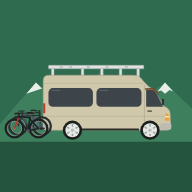
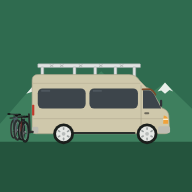
Van: bikes hang across the back, drawn end-on from the side
Claude-Session: https://claude.ai/code/session_01LHdGYmdbWbR8JhTrwiU8N7

Changed region(s): [[0.0, 0.3125, 0.9062, 0.75]]

diff --git a/trip/index.html b/trip/index.html
@@ -136,7 +136,7 @@ textarea{min-height:72px;resize:vertical}
 #splash{position:fixed;inset:0;z-index:200;background:var(--fern);display:grid;place-items:center;align-content:center;gap:14px;animation:spOut .45s ease 1.75s forwards}
 @keyframes spOut{to{opacity:0;visibility:hidden}}
 .sp-scene{position:relative;width:250px;height:160px;overflow:visible}
-.sp-van{position:absolute;left:-33px;bottom:7px;width:263px;animation:spBob .28s ease-in-out infinite alternate}
+.sp-van{position:absolute;left:-7.5px;bottom:7px;width:237.6px;animation:spBob .28s ease-in-out infinite alternate}
 @keyframes spBob{to{transform:translateY(-2.5px)}}
 .sp-wheel{transform-box:fill-box;transform-origin:center;animation:spSpin .45s linear infinite}
 @keyframes spSpin{to{transform:rotate(-360deg)}}
@@ -444,7 +444,7 @@ pre.sql{background:var(--paper);border:1px solid var(--line);border-radius:10px;
 </style>
 </head>
 <body>
-<div id="splash" aria-hidden="true"><div class="sp-scene"><div class="sp-ground"></div><div class="sp-night"><svg class="sp-sky" viewBox="0 0 400 460" preserveAspectRatio="xMidYMin slice" aria-hidden="true"><circle cx="165" cy="77" r="0.5" fill="#fff" opacity="0.8"/><circle cx="202" cy="333" r="0.5" fill="#fff" opacity="0.6"/><circle cx="24" cy="37" r="0.7" fill="#fff" opacity="0.6"/><circle cx="274" cy="48" r="0.5" fill="#fff" opacity="0.45"/><circle cx="187" cy="298" r="0.7" fill="#fff" opacity="0.6"/><circle cx="29" cy="259" r="0.9" fill="#fff" opacity="0.6"/><circle cx="109" cy="19" r="0.5" fill="#fff" opacity="0.6"/><circle cx="44" cy="222" r="0.9" fill="#fff" opacity="0.6"/><circle cx="214" cy="35" r="0.9" fill="#fff" opacity="0.6"/><circle cx="123" cy="46" r="0.7" fill="#fff" opacity="0.8"/><circle cx="282" cy="217" r="0.7" fill="#fff" opacity="0.45"/><circle cx="30" cy="289" r="0.5" fill="#fff" opacity="0.45"/><circle cx="322" cy="321" r="0.5" fill="#fff" opacity="0.45"/><circle cx="298" cy="31" r="0.5" fill="#fff" opacity="0.8"/><circle cx="295" cy="299" r="0.5" fill="#fff" opacity="0.45"/><circle cx="203" cy="25" r="0.7" fill="#fff" opacity="0.8"/><circle cx="113" cy="23" r="0.5" fill="#fff" opacity="0.6"/><circle cx="148" cy="214" r="0.7" fill="#fff" opacity="0.45"/><circle cx="73" cy="276" r="0.5" fill="#fff" opacity="0.6"/><circle cx="60" cy="292" r="0.9" fill="#fff" opacity="0.6"/><circle cx="157" cy="286" r="0.9" fill="#fff" opacity="0.8"/><circle cx="349" cy="92" r="0.7" fill="#fff" opacity="0.45"/><circle cx="52" cy="297" r="0.9" fill="#fff" opacity="0.8"/><circle cx="292" cy="327" r="0.9" fill="#fff" opacity="0.8"/><circle cx="96" cy="190" r="0.9" fill="#fff" opacity="0.8"/><circle cx="49" cy="280" r="0.5" fill="#fff" opacity="0.6"/><circle cx="364" cy="32" r="0.9" fill="#fff" opacity="0.8"/><circle cx="288" cy="30" r="0.7" fill="#fff" opacity="0.6"/><circle cx="254" cy="348" r="0.7" fill="#fff" opacity="0.6"/><circle cx="272" cy="218" r="0.5" fill="#fff" opacity="0.6"/><circle cx="397" cy="160" r="0.9" fill="#fff" opacity="0.6"/><circle cx="238" cy="299" r="0.5" fill="#fff" opacity="0.45"/><circle cx="232" cy="185" r="0.5" fill="#fff" opacity="0.45"/><circle cx="153" cy="127" r="0.7" fill="#fff" opacity="0.45"/><circle cx="92" cy="357" r="0.5" fill="#fff" opacity="0.6"/><circle cx="399" cy="124" r="0.9" fill="#fff" opacity="0.45"/><circle cx="41" cy="294" r="0.5" fill="#fff" opacity="0.45"/><circle cx="153" cy="268" r="0.9" fill="#fff" opacity="0.45"/><circle cx="253" cy="175" r="0.9" fill="#fff" opacity="0.45"/><circle cx="373" cy="229" r="0.7" fill="#fff" opacity="0.8"/><circle cx="147" cy="311" r="0.5" fill="#fff" opacity="0.45"/><circle cx="37" cy="60" r="0.5" fill="#fff" opacity="0.8"/><circle cx="262" cy="214" r="0.7" fill="#fff" opacity="0.45"/><circle cx="84" cy="175" r="0.9" fill="#fff" opacity="0.6"/><circle cx="77" cy="250" r="0.7" fill="#fff" opacity="0.8"/><circle cx="215" cy="20" r="0.7" fill="#fff" opacity="0.6"/><circle cx="342" cy="39" r="0.5" fill="#fff" opacity="0.45"/><circle cx="391" cy="285" r="0.7" fill="#fff" opacity="0.6"/><circle cx="174" cy="355" r="0.7" fill="#fff" opacity="0.6"/><circle cx="179" cy="304" r="0.7" fill="#fff" opacity="0.45"/><path d="M70 70a20 20 0 1 0 16 31a16 16 0 1 1 -16 -31z" fill="#f3efd9" opacity=".95"/><g class="tw"><circle cx="292" cy="84" r="3.9899999999999998" fill="#cfe0ff" opacity=".22"/><circle cx="292" cy="84" r="2.1" fill="#fff"/></g><g class="tw b"><circle cx="297" cy="136" r="4.9399999999999995" fill="#cfe0ff" opacity=".22"/><circle cx="297" cy="136" r="2.6" fill="#fff"/></g><g class="tw c"><circle cx="272" cy="106" r="4.56" fill="#cfe0ff" opacity=".22"/><circle cx="272" cy="106" r="2.4" fill="#fff"/></g><g class="tw d"><circle cx="313" cy="102" r="3.04" fill="#cfe0ff" opacity=".22"/><circle cx="313" cy="102" r="1.6" fill="#fff"/></g><g class="tw"><circle cx="303" cy="119" r="2.09" fill="#cfe0ff" opacity=".22"/><circle cx="303" cy="119" r="1.1" fill="#fff"/></g><g class="tw b"><circle cx="234" cy="124" r="4.56" fill="#cfe0ff" opacity=".22"/><circle cx="234" cy="124" r="2.4" fill="#fff"/></g><g class="tw c"><circle cx="204" cy="134" r="5.51" fill="#cfe0ff" opacity=".22"/><circle cx="204" cy="134" r="2.9" fill="#fff"/></g></svg></div><div class="sp-far"></div><div class="sp-bush"></div><div class="sp-road"></div><svg class="sp-fan sp-day" viewBox="0 0 64 40" aria-hidden="true"><g><path d="M30 20L58 6L62 16L60 26L56 34Z" fill="#3b2c22"/><path d="M58 6L62 16L60 26L56 34" fill="none" stroke="#fff" stroke-width="2.4" stroke-linecap="round"/><path d="M33 19L60 12M33 21L61 22M32 23L57 31" stroke="#5a4334" stroke-width=".9"/></g><ellipse cx="22" cy="21" rx="12" ry="8" fill="#6a4f3c"/><path d="M12 22q8 8 18 2" fill="#e8c88f"/><circle cx="12" cy="15" r="7" fill="#4a3628"/><path d="M8 12q4-2 8 0" stroke="#fff" stroke-width="1.6" fill="none" stroke-linecap="round"/><path d="M7 19q4 3 8 1" stroke="#fff" stroke-width="1.4" fill="none"/><circle cx="9.5" cy="14.5" r="1.4" fill="#111"/><path d="M5 15L1 16L5 17Z" fill="#2b211a"/><path class="sp-wing" d="M18 18Q28 2 40 8Q32 14 26 21Z" fill="#57402f"/></svg><div class="sp-beam sp-night"></div><div class="sp-puffs"><i></i><i></i><i></i></div><svg class="sp-van" viewBox="-96 30 582 265" aria-hidden="true"><g class="vbody">
+<div id="splash" aria-hidden="true"><div class="sp-scene"><div class="sp-ground"></div><div class="sp-night"><svg class="sp-sky" viewBox="0 0 400 460" preserveAspectRatio="xMidYMin slice" aria-hidden="true"><circle cx="165" cy="77" r="0.5" fill="#fff" opacity="0.8"/><circle cx="202" cy="333" r="0.5" fill="#fff" opacity="0.6"/><circle cx="24" cy="37" r="0.7" fill="#fff" opacity="0.6"/><circle cx="274" cy="48" r="0.5" fill="#fff" opacity="0.45"/><circle cx="187" cy="298" r="0.7" fill="#fff" opacity="0.6"/><circle cx="29" cy="259" r="0.9" fill="#fff" opacity="0.6"/><circle cx="109" cy="19" r="0.5" fill="#fff" opacity="0.6"/><circle cx="44" cy="222" r="0.9" fill="#fff" opacity="0.6"/><circle cx="214" cy="35" r="0.9" fill="#fff" opacity="0.6"/><circle cx="123" cy="46" r="0.7" fill="#fff" opacity="0.8"/><circle cx="282" cy="217" r="0.7" fill="#fff" opacity="0.45"/><circle cx="30" cy="289" r="0.5" fill="#fff" opacity="0.45"/><circle cx="322" cy="321" r="0.5" fill="#fff" opacity="0.45"/><circle cx="298" cy="31" r="0.5" fill="#fff" opacity="0.8"/><circle cx="295" cy="299" r="0.5" fill="#fff" opacity="0.45"/><circle cx="203" cy="25" r="0.7" fill="#fff" opacity="0.8"/><circle cx="113" cy="23" r="0.5" fill="#fff" opacity="0.6"/><circle cx="148" cy="214" r="0.7" fill="#fff" opacity="0.45"/><circle cx="73" cy="276" r="0.5" fill="#fff" opacity="0.6"/><circle cx="60" cy="292" r="0.9" fill="#fff" opacity="0.6"/><circle cx="157" cy="286" r="0.9" fill="#fff" opacity="0.8"/><circle cx="349" cy="92" r="0.7" fill="#fff" opacity="0.45"/><circle cx="52" cy="297" r="0.9" fill="#fff" opacity="0.8"/><circle cx="292" cy="327" r="0.9" fill="#fff" opacity="0.8"/><circle cx="96" cy="190" r="0.9" fill="#fff" opacity="0.8"/><circle cx="49" cy="280" r="0.5" fill="#fff" opacity="0.6"/><circle cx="364" cy="32" r="0.9" fill="#fff" opacity="0.8"/><circle cx="288" cy="30" r="0.7" fill="#fff" opacity="0.6"/><circle cx="254" cy="348" r="0.7" fill="#fff" opacity="0.6"/><circle cx="272" cy="218" r="0.5" fill="#fff" opacity="0.6"/><circle cx="397" cy="160" r="0.9" fill="#fff" opacity="0.6"/><circle cx="238" cy="299" r="0.5" fill="#fff" opacity="0.45"/><circle cx="232" cy="185" r="0.5" fill="#fff" opacity="0.45"/><circle cx="153" cy="127" r="0.7" fill="#fff" opacity="0.45"/><circle cx="92" cy="357" r="0.5" fill="#fff" opacity="0.6"/><circle cx="399" cy="124" r="0.9" fill="#fff" opacity="0.45"/><circle cx="41" cy="294" r="0.5" fill="#fff" opacity="0.45"/><circle cx="153" cy="268" r="0.9" fill="#fff" opacity="0.45"/><circle cx="253" cy="175" r="0.9" fill="#fff" opacity="0.45"/><circle cx="373" cy="229" r="0.7" fill="#fff" opacity="0.8"/><circle cx="147" cy="311" r="0.5" fill="#fff" opacity="0.45"/><circle cx="37" cy="60" r="0.5" fill="#fff" opacity="0.8"/><circle cx="262" cy="214" r="0.7" fill="#fff" opacity="0.45"/><circle cx="84" cy="175" r="0.9" fill="#fff" opacity="0.6"/><circle cx="77" cy="250" r="0.7" fill="#fff" opacity="0.8"/><circle cx="215" cy="20" r="0.7" fill="#fff" opacity="0.6"/><circle cx="342" cy="39" r="0.5" fill="#fff" opacity="0.45"/><circle cx="391" cy="285" r="0.7" fill="#fff" opacity="0.6"/><circle cx="174" cy="355" r="0.7" fill="#fff" opacity="0.6"/><circle cx="179" cy="304" r="0.7" fill="#fff" opacity="0.45"/><path d="M70 70a20 20 0 1 0 16 31a16 16 0 1 1 -16 -31z" fill="#f3efd9" opacity=".95"/><g class="tw"><circle cx="292" cy="84" r="3.9899999999999998" fill="#cfe0ff" opacity=".22"/><circle cx="292" cy="84" r="2.1" fill="#fff"/></g><g class="tw b"><circle cx="297" cy="136" r="4.9399999999999995" fill="#cfe0ff" opacity=".22"/><circle cx="297" cy="136" r="2.6" fill="#fff"/></g><g class="tw c"><circle cx="272" cy="106" r="4.56" fill="#cfe0ff" opacity=".22"/><circle cx="272" cy="106" r="2.4" fill="#fff"/></g><g class="tw d"><circle cx="313" cy="102" r="3.04" fill="#cfe0ff" opacity=".22"/><circle cx="313" cy="102" r="1.6" fill="#fff"/></g><g class="tw"><circle cx="303" cy="119" r="2.09" fill="#cfe0ff" opacity=".22"/><circle cx="303" cy="119" r="1.1" fill="#fff"/></g><g class="tw b"><circle cx="234" cy="124" r="4.56" fill="#cfe0ff" opacity=".22"/><circle cx="234" cy="124" r="2.4" fill="#fff"/></g><g class="tw c"><circle cx="204" cy="134" r="5.51" fill="#cfe0ff" opacity=".22"/><circle cx="204" cy="134" r="2.9" fill="#fff"/></g></svg></div><div class="sp-far"></div><div class="sp-bush"></div><div class="sp-road"></div><svg class="sp-fan sp-day" viewBox="0 0 64 40" aria-hidden="true"><g><path d="M30 20L58 6L62 16L60 26L56 34Z" fill="#3b2c22"/><path d="M58 6L62 16L60 26L56 34" fill="none" stroke="#fff" stroke-width="2.4" stroke-linecap="round"/><path d="M33 19L60 12M33 21L61 22M32 23L57 31" stroke="#5a4334" stroke-width=".9"/></g><ellipse cx="22" cy="21" rx="12" ry="8" fill="#6a4f3c"/><path d="M12 22q8 8 18 2" fill="#e8c88f"/><circle cx="12" cy="15" r="7" fill="#4a3628"/><path d="M8 12q4-2 8 0" stroke="#fff" stroke-width="1.6" fill="none" stroke-linecap="round"/><path d="M7 19q4 3 8 1" stroke="#fff" stroke-width="1.4" fill="none"/><circle cx="9.5" cy="14.5" r="1.4" fill="#111"/><path d="M5 15L1 16L5 17Z" fill="#2b211a"/><path class="sp-wing" d="M18 18Q28 2 40 8Q32 14 26 21Z" fill="#57402f"/></svg><div class="sp-beam sp-night"></div><div class="sp-puffs"><i></i><i></i><i></i></div><svg class="sp-van" viewBox="-40 30 526 265" aria-hidden="true"><g class="vbody">
  <!-- roof rack: aluminium, side-mounted legs -->
  <g fill="#dfe2e1" stroke="#9fa5a4" stroke-width="1.5">
   <rect x="58" y="36" width="326" height="12" rx="2"/>
@@ -471,7 +471,7 @@ pre.sql{background:var(--paper);border:1px solid var(--line);border-radius:10px;
  <rect x="440" y="234" width="38" height="22" rx="6" fill="#bdbcb2"/>
  <rect x="40" y="236" width="20" height="20" rx="5" fill="#bdbcb2"/>
  <rect x="168" y="252" width="200" height="7" rx="3" fill="#2a2e2b"/>
- <g class="bikerack"><path d="M42 252H28" stroke="#2a2e2b" stroke-width="7" stroke-linecap="round"/><path d="M32 254L27 192" stroke="#2a2e2b" stroke-width="6" stroke-linecap="round"/><path d="M28 198L-58 202" stroke="#2a2e2b" stroke-width="4" stroke-linecap="round"/><circle cx="36" cy="244" r="30" fill="none" stroke="#2a2f2e" stroke-width="7.5"/><circle cx="36" cy="244" r="32.6" fill="none" stroke="#2a2f2e" stroke-width="2" stroke-dasharray="2.2 2.6"/><circle cx="36" cy="244" r="24.5" fill="none" stroke="#9aa1a0" stroke-width="1.8"/><circle cx="36" cy="244" r="3.4" fill="#9aa1a0"/><circle cx="-46" cy="244" r="30" fill="none" stroke="#2a2f2e" stroke-width="7.5"/><circle cx="-46" cy="244" r="32.6" fill="none" stroke="#2a2f2e" stroke-width="2" stroke-dasharray="2.2 2.6"/><circle cx="-46" cy="244" r="24.5" fill="none" stroke="#9aa1a0" stroke-width="1.8"/><circle cx="-46" cy="244" r="3.4" fill="#9aa1a0"/><g fill="none" stroke="#4a5860" stroke-width="5.5" stroke-linecap="round" stroke-linejoin="round"><path d="M36.0 244.0L0.0 252.0L7.0 204.0"/><path d="M36.0 244.0L6.0 211.0"/><path d="M0.0 252.0L-34.0 212.0M6.0 207.0L-31.0 203.0M-34.0 212.0L-31.0 200.0"/></g><path d="M-33.0 210.0L-46.0 244.0" stroke="#2f383d" stroke-width="5" stroke-linecap="round"/><path d="M-31.0 200.0L-34.0 193.0M-43.0 192.0L-25.0 192.0" stroke="#2a2f2e" stroke-width="3.6" stroke-linecap="round"/><path d="M7.0 204.0L9.0 194.0" stroke="#555c5b" stroke-width="3"/><path d="M-2.0 191.0Q8.0 188.0 19.0 192.0" stroke="#2a2f2e" stroke-width="4.5" stroke-linecap="round" fill="none"/><circle cx="0" cy="252" r="5.5" fill="#5b6261"/><path d="M0.0 252.0L8.0 262.0" stroke="#3a403f" stroke-width="3" stroke-linecap="round"/><path d="M28 207L-56 211" stroke="#2a2e2b" stroke-width="4" stroke-linecap="round"/><circle cx="24" cy="252" r="30" fill="none" stroke="#1d2120" stroke-width="7.5"/><circle cx="24" cy="252" r="32.6" fill="none" stroke="#1d2120" stroke-width="2" stroke-dasharray="2.2 2.6"/><circle cx="24" cy="252" r="24.5" fill="none" stroke="#9aa1a0" stroke-width="1.8"/><circle cx="24" cy="252" r="3.4" fill="#9aa1a0"/><circle cx="-58" cy="252" r="30" fill="none" stroke="#1d2120" stroke-width="7.5"/><circle cx="-58" cy="252" r="32.6" fill="none" stroke="#1d2120" stroke-width="2" stroke-dasharray="2.2 2.6"/><circle cx="-58" cy="252" r="24.5" fill="none" stroke="#9aa1a0" stroke-width="1.8"/><circle cx="-58" cy="252" r="3.4" fill="#9aa1a0"/><g fill="none" stroke="#1f2427" stroke-width="5.5" stroke-linecap="round" stroke-linejoin="round"><path d="M24.0 252.0L-12.0 260.0L-5.0 212.0"/><path d="M24.0 252.0L-6.0 219.0"/><path d="M-12.0 260.0L-46.0 220.0M-6.0 215.0L-43.0 211.0M-46.0 220.0L-43.0 208.0"/></g><path d="M-45.0 218.0L-58.0 252.0" stroke="#b8372d" stroke-width="5" stroke-linecap="round"/><path d="M-43.0 208.0L-46.0 201.0M-55.0 200.0L-37.0 200.0" stroke="#1d2120" stroke-width="3.6" stroke-linecap="round"/><path d="M-5.0 212.0L-3.0 202.0" stroke="#555c5b" stroke-width="3"/><path d="M-14.0 199.0Q-4.0 196.0 7.0 200.0" stroke="#1d2120" stroke-width="4.5" stroke-linecap="round" fill="none"/><circle cx="-12" cy="260" r="5.5" fill="#5b6261"/><path d="M-12.0 260.0L-4.0 270.0" stroke="#3a403f" stroke-width="3" stroke-linecap="round"/><path d="M-44 204v-8M-30 204v-8M-44 213v-8M-30 213v-8" stroke="#2a2e2b" stroke-width="3" stroke-linecap="round"/></g>
+ <g class="bikerack"><path d="M42 252H30" stroke="#2a2e2b" stroke-width="7" stroke-linecap="round"/><path d="M33 254L30 196" stroke="#2a2e2b" stroke-width="6" stroke-linecap="round"/><path d="M31 204L-30 208" stroke="#2a2e2b" stroke-width="4" stroke-linecap="round"/><ellipse cx="-18" cy="243" rx="8.5" ry="28" fill="none" stroke="#2a2f2e" stroke-width="5.5"/><ellipse cx="-18" cy="243" rx="6" ry="23" fill="none" stroke="#8d9493" stroke-width="1.3"/><path d="M-17.0 206.0L-18.0 243.0" stroke="#2f383d" stroke-width="4.5" stroke-linecap="round"/><g fill="none" stroke="#4a5860" stroke-width="5" stroke-linecap="round" stroke-linejoin="round"><path d="M-6.0 246.0L-11.0 251.0L-9.0 206.0M-11.0 251.0L-17.0 208.0M-9.0 210.0L-17.0 207.0"/></g><path d="M-17.0 206.0V196M-36.0 195.0L2.0 197.0" stroke="#2a2f2e" stroke-width="3.4" stroke-linecap="round"/><path d="M-36.0 195.0h5M-3.0 197.0h5" stroke="#111" stroke-width="5" stroke-linecap="round"/><path d="M-9.0 206.0V200" stroke="#555c5b" stroke-width="3"/><ellipse cx="-8" cy="198" rx="5" ry="3.2" fill="#2a2f2e"/><path d="M-20.0 251.0H-2" stroke="#3a403f" stroke-width="2.6" stroke-linecap="round"/><circle cx="-11" cy="251" r="3.5" fill="#5b6261"/><ellipse cx="-6" cy="246" rx="10" ry="31" fill="none" stroke="#2a2f2e" stroke-width="6.5"/><ellipse cx="-6" cy="246" rx="10" ry="31" fill="none" stroke="#343a38" stroke-width="2" stroke-dasharray="2 2.6"/><ellipse cx="-6" cy="246" rx="7" ry="25" fill="none" stroke="#9aa1a0" stroke-width="1.4"/><circle cx="-6" cy="246" r="2.6" fill="#9aa1a0"/><ellipse cx="6" cy="249" rx="8.5" ry="28" fill="none" stroke="#1d2120" stroke-width="5.5"/><ellipse cx="6" cy="249" rx="6" ry="23" fill="none" stroke="#8d9493" stroke-width="1.3"/><path d="M7.0 212.0L6.0 249.0" stroke="#b8372d" stroke-width="4.5" stroke-linecap="round"/><g fill="none" stroke="#1f2427" stroke-width="5" stroke-linecap="round" stroke-linejoin="round"><path d="M18.0 252.0L13.0 257.0L15.0 212.0M13.0 257.0L7.0 214.0M15.0 216.0L7.0 213.0"/></g><path d="M7.0 212.0V202M-12.0 201.0L26.0 203.0" stroke="#1d2120" stroke-width="3.4" stroke-linecap="round"/><path d="M-12.0 201.0h5M21.0 203.0h5" stroke="#111" stroke-width="5" stroke-linecap="round"/><path d="M15.0 212.0V206" stroke="#555c5b" stroke-width="3"/><ellipse cx="16" cy="204" rx="5" ry="3.2" fill="#1d2120"/><path d="M4.0 257.0H22" stroke="#3a403f" stroke-width="2.6" stroke-linecap="round"/><circle cx="13" cy="257" r="3.5" fill="#5b6261"/><ellipse cx="18" cy="252" rx="10" ry="31" fill="none" stroke="#1d2120" stroke-width="6.5"/><ellipse cx="18" cy="252" rx="10" ry="31" fill="none" stroke="#343a38" stroke-width="2" stroke-dasharray="2 2.6"/><ellipse cx="18" cy="252" rx="7" ry="25" fill="none" stroke="#9aa1a0" stroke-width="1.4"/><circle cx="18" cy="252" r="2.6" fill="#9aa1a0"/></g>
 </g><g class="sp-wheel"><circle cx="140" cy="258" r="33" fill="#1b1f1c"/><circle cx="140" cy="258" r="24" fill="#e6e8e5"/><rect x="137.5" y="237" width="5" height="9" rx="2" fill="#9aa09f" transform="rotate(0 140 258)"/><rect x="137.5" y="237" width="5" height="9" rx="2" fill="#9aa09f" transform="rotate(60 140 258)"/><rect x="137.5" y="237" width="5" height="9" rx="2" fill="#9aa09f" transform="rotate(120 140 258)"/><rect x="137.5" y="237" width="5" height="9" rx="2" fill="#9aa09f" transform="rotate(180 140 258)"/><rect x="137.5" y="237" width="5" height="9" rx="2" fill="#9aa09f" transform="rotate(240 140 258)"/><rect x="137.5" y="237" width="5" height="9" rx="2" fill="#9aa09f" transform="rotate(300 140 258)"/><circle cx="140" cy="258" r="6" fill="#b9bdbb"/></g><g class="sp-wheel"><circle cx="405" cy="258" r="33" fill="#1b1f1c"/><circle cx="405" cy="258" r="24" fill="#e6e8e5"/><rect x="402.5" y="237" width="5" height="9" rx="2" fill="#9aa09f" transform="rotate(0 405 258)"/><rect x="402.5" y="237" width="5" height="9" rx="2" fill="#9aa09f" transform="rotate(60 405 258)"/><rect x="402.5" y="237" width="5" height="9" rx="2" fill="#9aa09f" transform="rotate(120 405 258)"/><rect x="402.5" y="237" width="5" height="9" rx="2" fill="#9aa09f" transform="rotate(180 405 258)"/><rect x="402.5" y="237" width="5" height="9" rx="2" fill="#9aa09f" transform="rotate(240 405 258)"/><rect x="402.5" y="237" width="5" height="9" rx="2" fill="#9aa09f" transform="rotate(300 405 258)"/><circle cx="405" cy="258" r="6" fill="#b9bdbb"/></g></svg></div><div class="sp-title">Aotearoa Loop</div></div>
 <div id="bg" aria-hidden="true"></div>
 <svg width="0" height="0" style="position:absolute" aria-hidden="true">

diff --git a/trip/sw.js b/trip/sw.js
@@ -1,6 +1,6 @@
 /* Aotearoa Loop — offline shell.
    Bump CACHE when you change index.html so the phone picks up the new version. */
-const CACHE = 'loop-v58';
+const CACHE = 'loop-v59';
 const SHELL = ['./', './index.html', './manifest.json', './icon-192.png', './icon-512.png', './plan.json', '../icon-192.png', './contour.svg'];
 const FONTS = ['fonts.googleapis.com', 'fonts.gstatic.com', 'cdnjs.cloudflare.com'];
 const TILES = 'tile.openstreetmap.org', TILE_CACHE = 'tiles-v1';

diff --git a/README.md b/README.md
@@ -243,7 +243,7 @@ Works offline and syncs between both phones. Served at **https://draumbear.githu
 |---|---|
 | `trip/index.html` | The whole app. Works offline; syncs through the same Supabase project as Kea. |
 | `trip/plan.json` | Starting plan, used the first time a phone opens the app with nothing shared yet. |
-| `trip/sw.js` | Service worker so it opens with no signal. Bump `CACHE` (`loop-v58`…) when you change `index.html`. |
+| `trip/sw.js` | Service worker so it opens with no signal. Bump `CACHE` (`loop-v59`…) when you change `index.html`. |
 | `trip/manifest.json`, `trip/icon-*.png` | Home-screen install. |
 
 **Install:** open the URL in Chrome → ⋮ → **Add to Home screen / Install app**.
